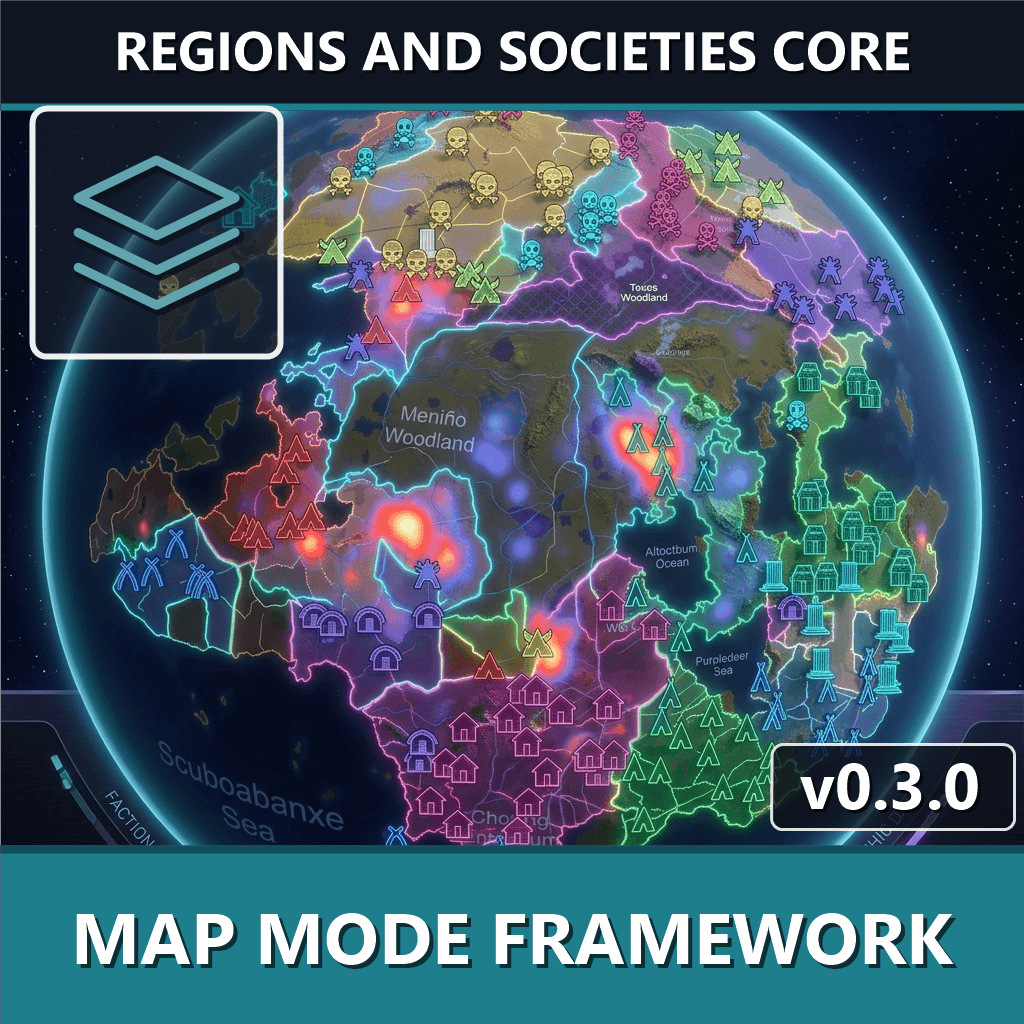
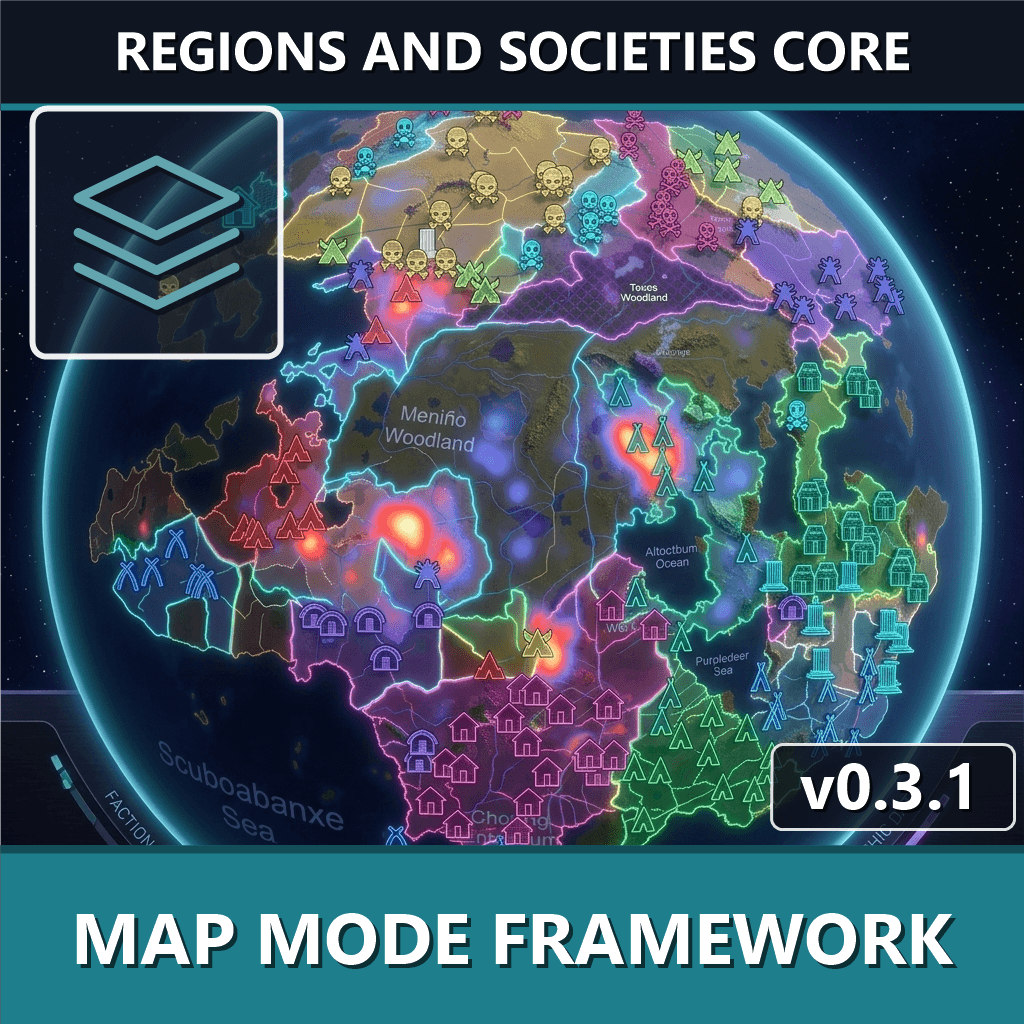
0.3.1 release metadata: version bump, worldgen-hotfix changelog, restamped preview, CHECKSUMS manifest

diff --git a/Learning/Changelog.md b/Learning/Changelog.md
@@ -2,6 +2,10 @@
 
 Full version history. The mod page and Workshop description show only the latest release; earlier versions are recorded here. Versions before 0.1.0 shipped under the former identity, **RimSynapse - Regions and Territories**, and are kept below as the predecessor's history.
 
+## v0.3.1 - Worldgen hotfix
+
+- **Fixed: a new world could generate with no factions and no settlements.** When another mod's patch lists a wild plant twice in a biome (seen with ReGrowth 2 and Fertile Planet both adding pincushion cactus and drago trees to Extreme Desert), RimWorld's plant-commonality cache throws on the duplicate the first time the biome is read. The 0.3.0 partition reads biome tree density for every land tile during world generation, so the throw landed inside the faction world-gen step and vanilla discarded the whole step. Three layers now cover it: duplicated biome plant and animal records are merged at startup and logged naming the biome and the def (which also fixes that biome's own map-generation error); every world-generation read of tree density goes through a guarded accessor; and the faction step itself falls back to vanilla faction generation (or, if factions already exist, gives each base-less faction one settlement) instead of leaving an empty world. Not a load-order issue.
+
 ## v0.3.0 - Living Population Model
 
 The world grows a living population and the map is redrawn from the ground up.

diff --git a/Learning/Compatibility_Matrix.md b/Learning/Compatibility_Matrix.md
@@ -66,6 +66,7 @@ No ordering constraint has been observed against Empire, VOE, VEF, World Dominat
 
 - **Best on a new colony.** An existing save is adopted in compatibility mode; see [Save Compatibility](Save_Compatibility).
 - **Broader modlist coverage is not yet characterised.** The mods above are what has been run and verified together. Other world mods are not known to conflict — they are simply untested, which is a different statement.
+- **Duplicated biome plants from other mods are repaired, not fatal.** Since 0.3.1, a biome that lists the same wild plant or animal twice (ReGrowth 2 and Fertile Planet both add pincushion cactus and drago trees to Extreme Desert, for example) is merged at startup with a logged warning naming the biome and the def. Before 0.3.1 that duplicate made world generation produce a world with no factions.
 
 ---
 
